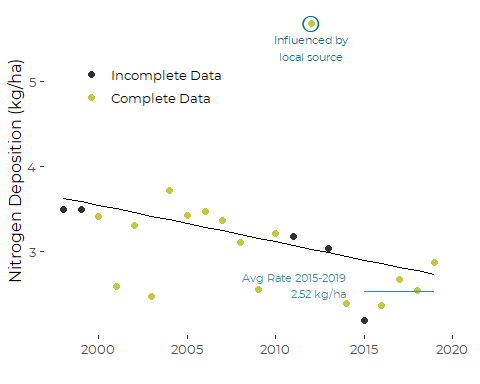
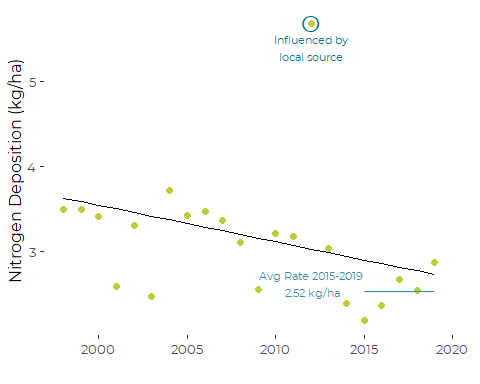
Reknit for revised graphics

diff --git a/Graphics/NTN_Aggregated_graphics.md b/Graphics/NTN_Aggregated_graphics.md
@@ -9,9 +9,13 @@ Curtis C. Bohlen, Casco Bay Estuary Partnership.
     -   [Add Data Quality Flag](#add-data-quality-flag)
     -   [Trend Graphic](#trend-graphic)
         -   [Consistent Units](#consistent-units)
-    -   [All Years](#all-years)
-    -   [Years that Meet QA Standards](#years-that-meet-qa-standards)
-    -   [Remove 2012 Too](#remove-2012-too)
+    -   [Kendall’s Tau](#kendalls-tau)
+        -   [All Years](#all-years)
+        -   [Years that Meet QA
+            Standards](#years-that-meet-qa-standards)
+    -   [Median-Based Linear Model](#median-based-linear-model)
+        -   [All Years](#all-years-1)
+    -   [Years that Meet QA Standards](#years-that-meet-qa-standards-1)
 -   [Atmospheric Nitrogen Loading](#atmospheric-nitrogen-loading)
     -   [Mean Loading Rates 2015 -
         2019](#mean-loading-rates-2015---2019)
@@ -105,7 +109,7 @@ long_data <- annual_data %>%
 
 ## Add Data Quality Flag
 
-THe data validation metadata for these data includes the following
+The data validation metadata for these data includes the following
 statement:
 
 > Three Completeness Criteria form the basis for the decision to include
@@ -127,6 +131,11 @@ totals or not:
 annual_data <- annual_data %>%
   mutate(fully_valid = Criteria1 >= 75 & Criteria2 >= 90 & Criteria3 >= 75)
 ```
+
+It is worth pointing out that for all years, Criteria2 (precipitation
+coverage) is 100% or near 100%. Where these years fail to meet data
+quality criteria, it is because of lack of valid samples. All years have
+at least 70% of rainfall with valid samples.
 
 ## Trend Graphic
 
@@ -192,11 +201,13 @@ There are significant data quality questions to contend with here, as
     source – specifically the decommissioning of the manure management
     pit at Wolfe’s Neck Farm.
 
-Given the obvious outlier for TN in 2012, we prefer to use a statistic
+Given the outlier for NH\_4 and TN in 2012, we prefer to use a statistic
 that is resistant to outliers. Here that can be either a rank
 correlation or Kendall’s Tau. We calculate both.
 
-## All Years
+## Kendall’s Tau
+
+### All Years
 
 ``` r
 cor.test(annual_data$yr, annual_data$totalN, method = 'spearman')
@@ -222,11 +233,11 @@ cor.test(annual_data$yr, annual_data$totalN, method = 'kendall')
 ```
 
 So we appear to have a significant decline in TN (and thus presumably
-NO3). The data providers do not use data from ears that do not meet
-Criteria 1 through 3. We should check if results are robust if we
-restrict to years that meet their data QA criteria.
+NO3). The data providers do not use data from years that do not meet
+Criteria 1 through 3. We check if results are robust if we restrict to
+years that meet their data QA criteria.
 
-## Years that Meet QA Standards
+### Years that Meet QA Standards
 
 If we remove several years with data that does not meet completeness
 criteria, we find a
@@ -255,40 +266,9 @@ cor.test(tmp1$yr, tmp1$totalN, method = 'kendall')
 #> -0.2647059
 ```
 
-So the significant results do not hold up if we remove those years.
+## Median-Based Linear Model
 
-## Remove 2012 Too
-
-We may also want to remove the outlier year of 2012, assuming the
-anomalous NH4 values are due to work on the manure management system at
-Wolfe’s Neck Farm.
-
-``` r
-tmp1 <- annual_data %>% filter(fully_valid) %>% filter(yr != 2012)
-cor.test(tmp1$yr, tmp1$totalN, method = 'spearman')
-#> 
-#>  Spearman's rank correlation rho
-#> 
-#> data:  tmp1$yr and tmp1$totalN
-#> S = 994, p-value = 0.07377
-#> alternative hypothesis: true rho is not equal to 0
-#> sample estimates:
-#>        rho 
-#> -0.4617647
-cor.test(tmp1$yr, tmp1$totalN, method = 'kendall')
-#> 
-#>  Kendall's rank correlation tau
-#> 
-#> data:  tmp1$yr and tmp1$totalN
-#> T = 39, p-value = 0.06411
-#> alternative hypothesis: true tau is not equal to 0
-#> sample estimates:
-#>   tau 
-#> -0.35
-```
-
-And that returns us to marginally significant correlations by all three
-tests.
+### All Years
 
 ``` r
 tn_mblm <- mblm(totalN ~ yr, data = annual_data)
@@ -319,10 +299,41 @@ summary(tn_mblm)
 
 That projects a decline of 0.04 mg/l TN as N per year.
 
+## Years that Meet QA Standards
+
+``` r
+tmp <- annual_data %>% filter(fully_valid)
+tn_mblm_2 <- mblm(totalN ~ yr, data = tmp)
+summary(tn_mblm_2)
+#> 
+#> Call:
+#> mblm(formula = totalN ~ yr, dataframe = tmp)
+#> 
+#> Residuals:
+#>      Min       1Q   Median       3Q      Max 
+#> -0.98085 -0.55484 -0.16201  0.07469  2.60562 
+#> 
+#> Coefficients:
+#>             Estimate      MAD V value Pr(>|V|)   
+#> (Intercept) 86.34507 53.36556     130  0.00934 **
+#> yr          -0.04139  0.02653      26  0.01500 * 
+#> ---
+#> Signif. codes:  0 '***' 0.001 '**' 0.01 '*' 0.05 '.' 0.1 ' ' 1
+#> 
+#> Residual standard error: 0.8197 on 15 degrees of freedom
+```
+
+That continues to identify a statistically significant decline in TN,
+even omitting the data that does not meet all data completeness
+criteria. The predicted slope is quite similar, and while the intercept
+looks different, the model predictiosn are nearly identical.
+
 ``` r
 newdat <- tibble(yr = 1998:2019)
 preds = predict(tn_mblm, newdata = newdat)
+preds2 = predict(tn_mblm_2, newdata = newdat)
 newdat$pred = preds
+newdat$pred2 = preds2
 ```
 
 ``` r
@@ -331,7 +342,8 @@ plt <- ggplot(annual_data, aes(yr, totalN)) +
              size = 2) +
   scale_color_manual(values = cbep_colors()[3:4],
                      name = '', labels = c('Incomplete Data', 'Complete Data')) +
-  geom_line(data = newdat, mapping = aes(x = yr, y = pred)) +
+  geom_line(data = newdat, mapping = aes(x = yr, y = pred), lwd = 1.5, color = 'gray15') +
+  geom_line(data = newdat, mapping = aes(x = yr, y = preds), color = 'yellow') +
   xlab('') +
   ylab('Nitrogen Deposition (kg/ha)') +
   theme_cbep(base_size = 12) +
@@ -342,11 +354,16 @@ plt
 
 <img src="NTN_Aggregated_graphics_files/figure-gfm/unnamed-chunk-13-1.png" style="display: block; margin: auto;" />
 
+We conclude that there is a meaningful decline in TN over time, and that
+it makes little difference whether we include or do not include the
+years that do not meet data completeness criteria. We chose to include
+them.
+
 # Atmospheric Nitrogen Loading
 
 ## Mean Loading Rates 2015 - 2019
 
-These are in the original units, kg/ha. NOT kg/ha of N.
+These are in the original units, kg/ha. NOT kg/ha of N except for TN.
 
 ``` r
 recent_loads <- annual_data %>%
@@ -365,10 +382,24 @@ tn_rate <- recent_loads$totalN
 
 ``` r
 dat <- tibble(yr = 2015:2019, val = tn_rate)
+
+plt <- ggplot(annual_data, aes(yr, totalN)) +
+  geom_point(color = cbep_colors()[4], size = 2) +
+  scale_color_manual(values = cbep_colors()[3:4],
+                     name = '', labels = c('Incomplete Data', 'Complete Data')) +
+  geom_line(data = newdat, mapping = aes(x = yr, y = pred)) +
+  
+  xlab('') +
+  ylab('Nitrogen Deposition (kg/ha)') +
+  
+  theme_cbep(base_size = 12) +
+  theme(legend.position = c(.25, .8)) +
+  xlim(1998, 2020)
+
 plt2 <- plt + 
   geom_line(data = dat, mapping = aes(yr, val), color = cbep_colors()[5]) +
-  annotate('text', x = 2014, y = 2.6, label = 'Avg Rate 2015-2019\n 2.52 kg/ha',
-           size = 3, color = cbep_colors()[5], hjust = 1)
+  annotate('text', x = 2012, y = 2.62, label = 'Avg Rate 2015-2019\n 2.52 kg/ha',
+           size = 3, color = cbep_colors()[5], hjust = .5)
 plt2
 ```
 
